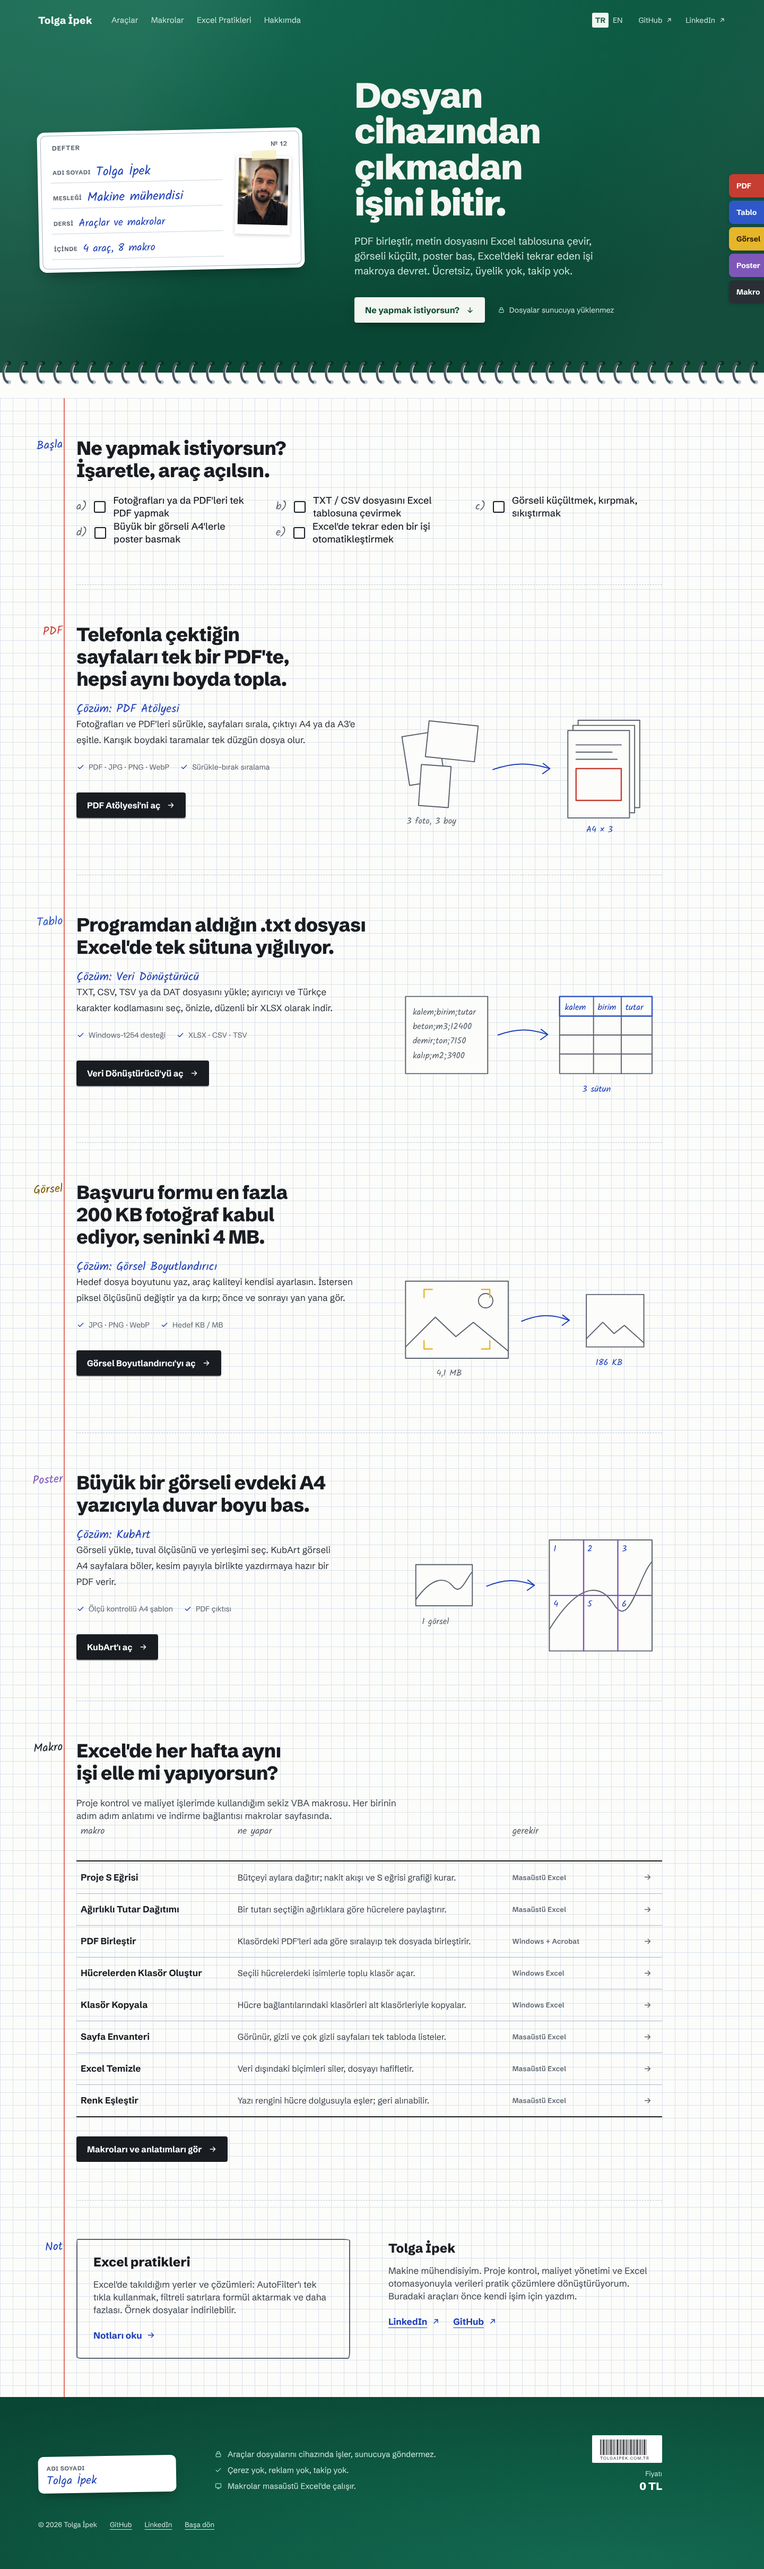
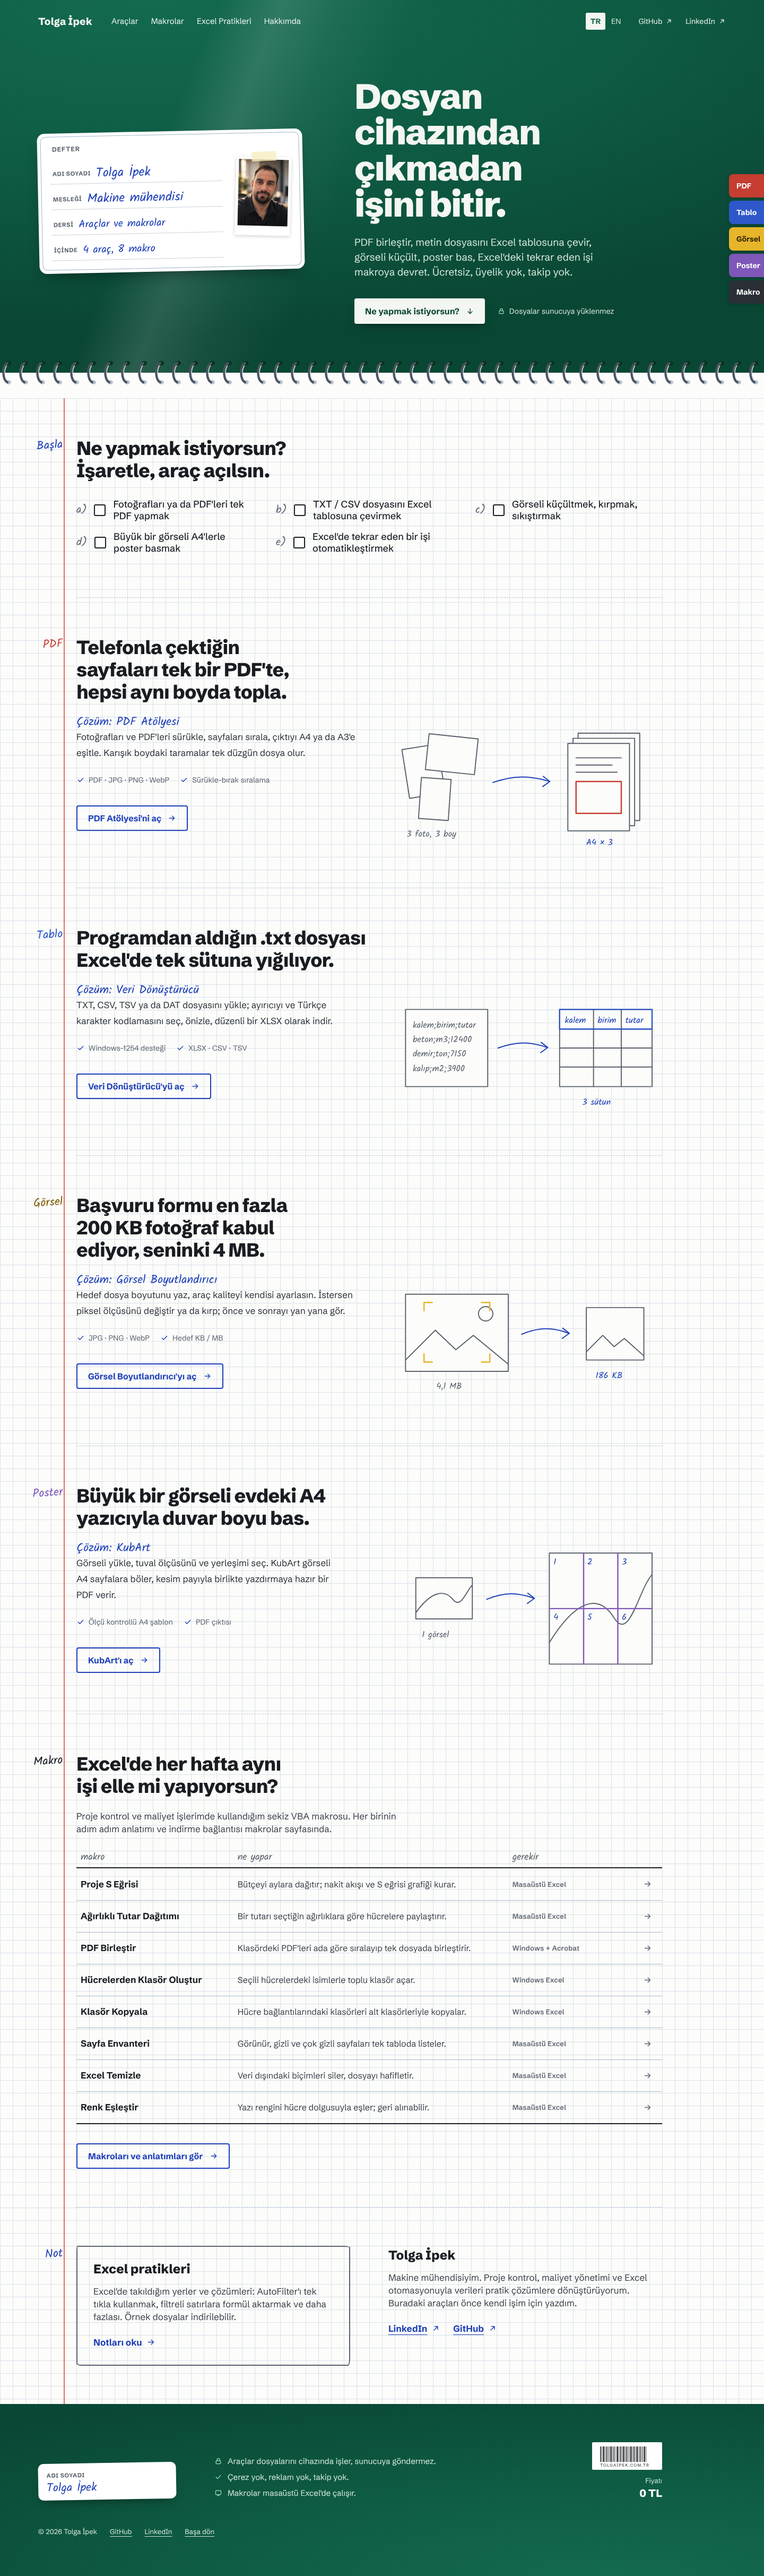
Ana sayfa: son gözden geçirme düzeltmeleri
Claude-Session: https://claude.ai/code/session_012UVQE2nF4Gk1zqam52nGvn

diff --git a/index.html b/index.html
@@ -39,18 +39,18 @@ html{scrollbar-color:#9aa8b6 var(--paper)}
 
 /* ---------- cover ---------- */
 .cover{position:relative;color:var(--cover-ink);background:
- linear-gradient(115deg,rgba(255,255,255,.07) 0 18%,rgba(255,255,255,0) 34% 70%,rgba(255,255,255,.04) 86%),
+ linear-gradient(112deg,rgba(255,255,255,0) 0 24%,rgba(255,255,255,.13) 31%,rgba(255,255,255,.05) 38%,rgba(255,255,255,0) 46%),
  radial-gradient(120% 90% at 20% 0%,#136a50 0%,var(--cover) 55%,var(--cover-deep) 100%);
  min-height:min(78vh,760px);display:flex;flex-direction:column}
 .bar{position:relative;z-index:1;display:flex;align-items:center;gap:calc(var(--sq)*1.5);padding:var(--sq) calc(var(--sq)*3);min-height:calc(var(--sq)*3)}
 .brand{font-weight:800;font-size:19px;letter-spacing:.01em;text-decoration:none}
 .bar nav{display:flex;gap:var(--sq);font-size:15px}
-.bar nav a,.ext a{text-decoration:none;color:var(--cover-soft)}
+.bar nav a,.ext a{text-decoration:none;color:#eef6f1}
 .bar nav a:hover,.ext a:hover{color:#fff;text-decoration:underline;text-underline-offset:5px;text-decoration-thickness:1px}
 .ext{margin-left:auto;display:flex;align-items:center;gap:var(--sq);font-size:14px}
 .ext a{display:inline-flex;align-items:center;gap:6px}
 .lang{display:flex;gap:2px;font-size:14px;color:var(--cover-soft)}
-.lang button{padding:2px 6px;border-radius:3px;color:var(--cover-soft)}
+.lang button{padding:4px 9px;border-radius:3px;color:var(--cover-soft)}
 .lang button.active{background:var(--cover-ink);color:var(--cover);font-weight:700}
 .cover-body{position:relative;z-index:1;flex:1;display:grid;grid-template-columns:minmax(0,500px) minmax(0,1fr);gap:calc(var(--sq)*4);align-items:center;padding:calc(var(--sq)*2) calc(var(--sq)*6) calc(var(--sq)*3) calc(var(--sq)*3)}
 
@@ -112,8 +112,8 @@ html{scrollbar-color:#9aa8b6 var(--paper)}
 .facts{margin-top:var(--sq);display:flex;flex-wrap:wrap;gap:6px 20px;font-size:14px;color:var(--pencil)}
 .facts li{display:flex;align-items:center;gap:7px}
 .facts .ico{color:var(--pen);font-size:16px}
-.solve .btn{margin-top:calc(var(--sq)*1.5);background:var(--ink);color:#fff;box-shadow:0 2px 0 rgba(0,0,0,.25)}
-.solve .btn:hover{background:var(--pen);transform:translateY(-2px)}
+.pen-btn{margin-top:calc(var(--sq)*1.5);background:transparent;color:var(--pen);border:2px solid var(--pen)}
+.pen-btn:hover{background:var(--pen);color:#fff}
 .sketch{position:relative;align-self:center}
 .sketch svg{display:block;width:100%;height:auto;max-width:520px;overflow:visible}
 .sk{fill:none;stroke:var(--pencil);stroke-width:2;stroke-linecap:round;stroke-linejoin:round}
@@ -128,7 +128,7 @@ html{scrollbar-color:#9aa8b6 var(--paper)}
 .drawing.drawn .skt{opacity:1}
 
 /* formula sheet: macros */
-.ruled{margin-top:calc(var(--sq)*1.5);border-top:2px solid var(--ink);border-bottom:2px solid var(--ink)}
+.ruled{margin-top:0;border-top:2px solid var(--ink);border-bottom:2px solid var(--ink)}
 .ruled a{display:grid;grid-template-columns:minmax(0,1.1fr) minmax(0,2fr) minmax(0,.9fr) 28px;align-items:center;gap:var(--sq);min-height:calc(var(--sq)*2.5);padding:0 8px;border-top:1px solid #aab8c6;text-decoration:none;transition:background .15s}
 .ruled a:first-child{border-top:0}
 .ruled a:hover{background:rgba(253,230,138,.55)}
@@ -137,7 +137,7 @@ html{scrollbar-color:#9aa8b6 var(--paper)}
 .ruled .r{font-size:13px;color:var(--pencil);font-weight:600;letter-spacing:.02em}
 .ruled .ico{color:var(--pencil)}
 .ruled a:hover .ico{color:var(--ink)}
-.rhead{display:grid;grid-template-columns:minmax(0,1.1fr) minmax(0,2fr) minmax(0,.9fr) 28px;gap:var(--sq);padding:6px 8px;font-family:var(--hand);font-size:18px;color:var(--pencil)}
+.rhead{margin-top:var(--sq);min-height:var(--sq);align-items:end;display:grid;grid-template-columns:minmax(0,1.1fr) minmax(0,2fr) minmax(0,.9fr) 28px;gap:var(--sq);padding:6px 8px;font-family:var(--hand);font-size:18px;color:var(--pencil)}
 
 /* note + about */
 .two{display:grid;grid-template-columns:minmax(0,1fr) minmax(0,1fr);gap:calc(var(--sq)*3);align-items:start}
@@ -201,7 +201,7 @@ html{scrollbar-color:#9aa8b6 var(--paper)}
  .pitch p{font-size:17px;line-height:26px}
  .page::before{left:28px}
  .sheet{padding:0 16px 0 44px}
- .mlabel{position:static;transform:none;text-align:left;width:auto;display:inline-block;margin-bottom:6px;font-size:20px}
+ .mlabel{display:none}
  .ex{padding:calc(var(--sq)*2.5) 0}
  .ruled a,.rhead{grid-template-columns:minmax(0,1fr) 22px;gap:4px 12px;padding:10px 4px}
  .ruled .d{grid-column:1;font-size:15px;line-height:22px}.ruled .r{grid-column:1}.ruled a .ico{grid-row:1/4;grid-column:2}
@@ -244,7 +244,7 @@ html{scrollbar-color:#9aa8b6 var(--paper)}
 
  <div class="cover-body">
   <div class="label" aria-label="Defter etiketi" data-aria-label-tr="Defter etiketi" data-aria-label-en="Notebook label">
-   <div class="label-head"><span data-tr="Defter" data-en="Notebook">Defter</span><span>№ 12</span></div>
+   <div class="label-head"><span data-tr="Defter" data-en="Notebook">Defter</span></div>
    <div class="label-grid">
     <dl>
      <div class="ln"><dt data-tr="Adı Soyadı" data-en="Name">Adı Soyadı</dt><dd>Tolga İpek</dd></div>
@@ -292,7 +292,7 @@ html{scrollbar-color:#9aa8b6 var(--paper)}
      <span class="sol hand" data-tr="Çözüm: PDF Atölyesi" data-en="Solution: PDF Workshop">Çözüm: PDF Atölyesi</span>
      <p data-tr="Fotoğrafları ve PDF'leri sürükle, sayfaları sırala, çıktıyı A4 ya da A3'e eşitle. Karışık boydaki taramalar tek düzgün dosya olur." data-en="Drop in photos and PDFs, reorder pages, and standardize the output to A4 or A3. Mixed-size scans become one tidy file.">Fotoğrafları ve PDF'leri sürükle, sayfaları sırala, çıktıyı A4 ya da A3'e eşitle. Karışık boydaki taramalar tek düzgün dosya olur.</p>
      <ul class="facts"><li><svg class="ico"><use href="#i-check"/></svg>PDF · JPG · PNG · WebP</li><li><svg class="ico"><use href="#i-check"/></svg><span data-tr="Sürükle-bırak sıralama" data-en="Drag to reorder">Sürükle-bırak sıralama</span></li></ul>
-     <a class="btn" href="pdf-atolyesi.html"><span data-tr="PDF Atölyesi'ni aç" data-en="Open PDF Workshop">PDF Atölyesi'ni aç</span><svg class="ico"><use href="#i-arrow"/></svg></a>
+     <a class="btn pen-btn" href="pdf-atolyesi.html"><span data-tr="PDF Atölyesi'ni aç" data-en="Open PDF Workshop">PDF Atölyesi'ni aç</span><svg class="ico"><use href="#i-arrow"/></svg></a>
     </div>
     <div class="sketch drawing" aria-hidden="true"><svg viewBox="0 0 520 260">
      <rect class="sk skf" x="20" y="60" width="70" height="96" transform="rotate(-9 55 108)" pathLength="1"/>
@@ -318,7 +318,7 @@ html{scrollbar-color:#9aa8b6 var(--paper)}
      <span class="sol hand" data-tr="Çözüm: Veri Dönüştürücü" data-en="Solution: Data Converter">Çözüm: Veri Dönüştürücü</span>
      <p data-tr="TXT, CSV, TSV ya da DAT dosyasını yükle; ayırıcıyı ve Türkçe karakter kodlamasını seç, önizle, düzenli bir XLSX olarak indir." data-en="Load a TXT, CSV, TSV or DAT file; pick the delimiter and Turkish encoding, preview it, and download a clean XLSX.">TXT, CSV, TSV ya da DAT dosyasını yükle; ayırıcıyı ve Türkçe karakter kodlamasını seç, önizle, düzenli bir XLSX olarak indir.</p>
      <ul class="facts"><li><svg class="ico"><use href="#i-check"/></svg><span data-tr="Windows-1254 desteği" data-en="Windows-1254 support">Windows-1254 desteği</span></li><li><svg class="ico"><use href="#i-check"/></svg>XLSX · CSV · TSV</li></ul>
-     <a class="btn" href="/veri-donusturucu/"><span data-tr="Veri Dönüştürücü'yü aç" data-en="Open Data Converter">Veri Dönüştürücü'yü aç</span><svg class="ico"><use href="#i-arrow"/></svg></a>
+     <a class="btn pen-btn" href="/veri-donusturucu/"><span data-tr="Veri Dönüştürücü'yü aç" data-en="Open Data Converter">Veri Dönüştürücü'yü aç</span><svg class="ico"><use href="#i-arrow"/></svg></a>
     </div>
     <div class="sketch drawing" aria-hidden="true"><svg viewBox="0 0 520 260">
      <rect class="sk skf" x="20" y="50" width="160" height="150" pathLength="1"/>
@@ -344,7 +344,7 @@ html{scrollbar-color:#9aa8b6 var(--paper)}
      <span class="sol hand" data-tr="Çözüm: Görsel Boyutlandırıcı" data-en="Solution: Image Resizer">Çözüm: Görsel Boyutlandırıcı</span>
      <p data-tr="Hedef dosya boyutunu yaz, araç kaliteyi kendisi ayarlasın. İstersen piksel ölçüsünü değiştir ya da kırp; önce ve sonrayı yan yana gör." data-en="Type the target file size and the tool tunes the quality for you. Change pixel size or crop if you like; compare before and after side by side.">Hedef dosya boyutunu yaz, araç kaliteyi kendisi ayarlasın. İstersen piksel ölçüsünü değiştir ya da kırp; önce ve sonrayı yan yana gör.</p>
      <ul class="facts"><li><svg class="ico"><use href="#i-check"/></svg>JPG · PNG · WebP</li><li><svg class="ico"><use href="#i-check"/></svg><span data-tr="Hedef KB / MB" data-en="Target KB / MB">Hedef KB / MB</span></li></ul>
-     <a class="btn" href="/gorsel-boyutlandirici/"><span data-tr="Görsel Boyutlandırıcı'yı aç" data-en="Open Image Resizer">Görsel Boyutlandırıcı'yı aç</span><svg class="ico"><use href="#i-arrow"/></svg></a>
+     <a class="btn pen-btn" href="/gorsel-boyutlandirici/"><span data-tr="Görsel Boyutlandırıcı'yı aç" data-en="Open Image Resizer">Görsel Boyutlandırıcı'yı aç</span><svg class="ico"><use href="#i-arrow"/></svg></a>
     </div>
     <div class="sketch drawing" aria-hidden="true"><svg viewBox="0 0 520 260">
      <rect class="sk skf" x="20" y="40" width="200" height="150" pathLength="1"/>
@@ -368,7 +368,7 @@ html{scrollbar-color:#9aa8b6 var(--paper)}
      <span class="sol hand" data-tr="Çözüm: KubArt" data-en="Solution: KubArt">Çözüm: KubArt</span>
      <p data-tr="Görseli yükle, tuval ölçüsünü ve yerleşimi seç. KubArt görseli A4 sayfalara böler, kesim payıyla birlikte yazdırmaya hazır bir PDF verir." data-en="Upload an image, choose the canvas size and layout. KubArt splits it into A4 sheets and gives you a print-ready PDF with cutting margins.">Görseli yükle, tuval ölçüsünü ve yerleşimi seç. KubArt görseli A4 sayfalara böler, kesim payıyla birlikte yazdırmaya hazır bir PDF verir.</p>
      <ul class="facts"><li><svg class="ico"><use href="#i-check"/></svg><span data-tr="Ölçü kontrollü A4 şablon" data-en="Measured A4 template">Ölçü kontrollü A4 şablon</span></li><li><svg class="ico"><use href="#i-check"/></svg><span data-tr="PDF çıktısı" data-en="PDF output">PDF çıktısı</span></li></ul>
-     <a class="btn" href="/kubart/"><span data-tr="KubArt'ı aç" data-en="Open KubArt">KubArt'ı aç</span><svg class="ico"><use href="#i-arrow"/></svg></a>
+     <a class="btn pen-btn" href="/kubart/"><span data-tr="KubArt'ı aç" data-en="Open KubArt">KubArt'ı aç</span><svg class="ico"><use href="#i-arrow"/></svg></a>
     </div>
     <div class="sketch drawing" aria-hidden="true"><svg viewBox="0 0 520 260">
      <rect class="sk skf" x="40" y="70" width="110" height="80" pathLength="1"/>
@@ -399,7 +399,7 @@ html{scrollbar-color:#9aa8b6 var(--paper)}
     <a href="makrolar.html#clear-unused-formatting"><span class="n" data-tr="Excel Temizle" data-en="Clean Excel">Excel Temizle</span><span class="d" data-tr="Veri dışındaki biçimleri siler, dosyayı hafifletir." data-en="Clears formatting outside your data to slim the file.">Veri dışındaki biçimleri siler, dosyayı hafifletir.</span><span class="r" data-tr="Masaüstü Excel" data-en="Desktop Excel">Masaüstü Excel</span><svg class="ico"><use href="#i-arrow"/></svg></a>
     <a href="makrolar.html#hide-text-matching-fill"><span class="n" data-tr="Renk Eşleştir" data-en="Match Font Color">Renk Eşleştir</span><span class="d" data-tr="Yazı rengini hücre dolgusuyla eşler; geri alınabilir." data-en="Matches text color to the cell fill; reversible.">Yazı rengini hücre dolgusuyla eşler; geri alınabilir.</span><span class="r" data-tr="Masaüstü Excel" data-en="Desktop Excel">Masaüstü Excel</span><svg class="ico"><use href="#i-arrow"/></svg></a>
    </div>
-   <a class="btn" style="margin-top:calc(var(--sq)*1.5);background:var(--ink);color:#fff" href="makrolar.html"><span data-tr="Makroları ve anlatımları gör" data-en="See macros and guides">Makroları ve anlatımları gör</span><svg class="ico"><use href="#i-arrow"/></svg></a>
+   <a class="btn pen-btn" href="makrolar.html"><span data-tr="Makroları ve anlatımları gör" data-en="See macros and guides">Makroları ve anlatımları gör</span><svg class="ico"><use href="#i-arrow"/></svg></a>
   </section>
 
   <section class="ex" id="hakkimda" aria-label="Notlar ve hakkımda" data-aria-label-tr="Notlar ve hakkımda" data-aria-label-en="Notes and about">

diff --git a/PRODUCT.md b/PRODUCT.md
@@ -23,12 +23,12 @@ Every browser tool runs entirely on the visitor's device; files are never upload
 
 ## Capabilities and Constraints
 - Hosted on GitHub Pages as static HTML/CSS/JS (no build step today). Custom domain via Cloudflare DNS.
-- Every page carries a Content-Security-Policy meta tag: scripts only from self, cdn.jsdelivr.net and cdnjs.cloudflare.com; fonts only from Google Fonts; images self/data/blob.
+- Every page carries a Content-Security-Policy meta tag: scripts only from self, cdn.jsdelivr.net and cdnjs.cloudflare.com; fonts self-hosted from `assets/fonts/` (Google Fonts still allowed by older pages' CSP); images self/data/blob.
 - Bilingual TR/EN via `data-tr` / `data-en` attributes and a small `localize()` script; must be kept.
 - No analytics, cookies, ads or third-party trackers; must stay that way.
 
 ## Brand Commitments
-- Name: Tolga İpek. Profile photo (`assets/portrait.jpg`) must appear on the homepage.
+- Name: Tolga İpek. Profile photo must appear on the homepage (`assets/vesikalik.jpg`, a 3:4 crop of `assets/portrait.jpg`).
 - TR/EN language toggle.
 - No tracking.
 
